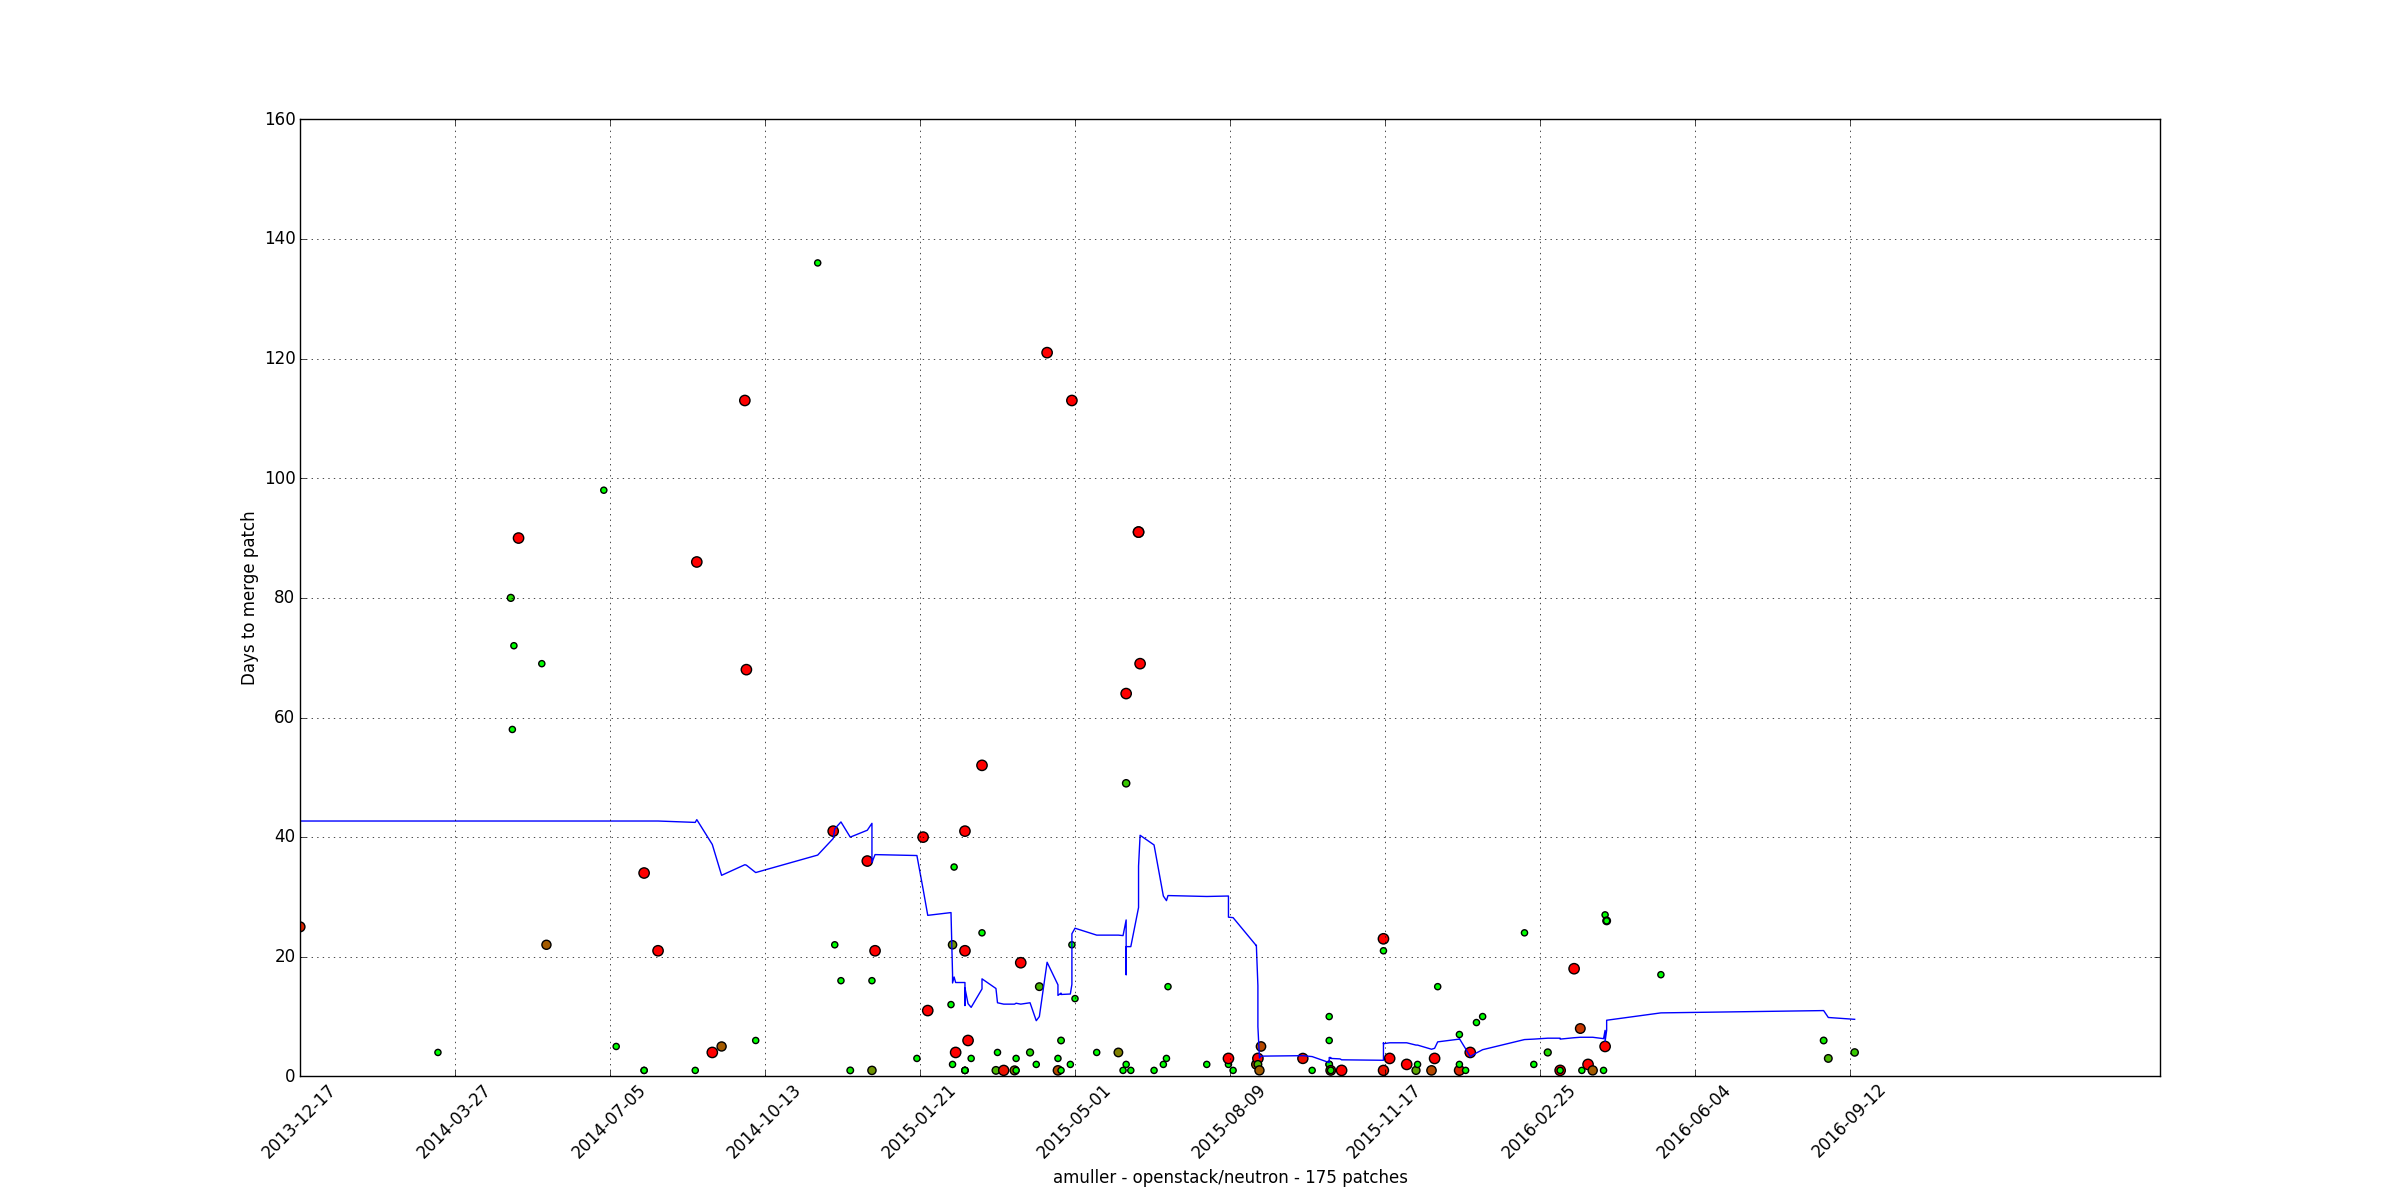
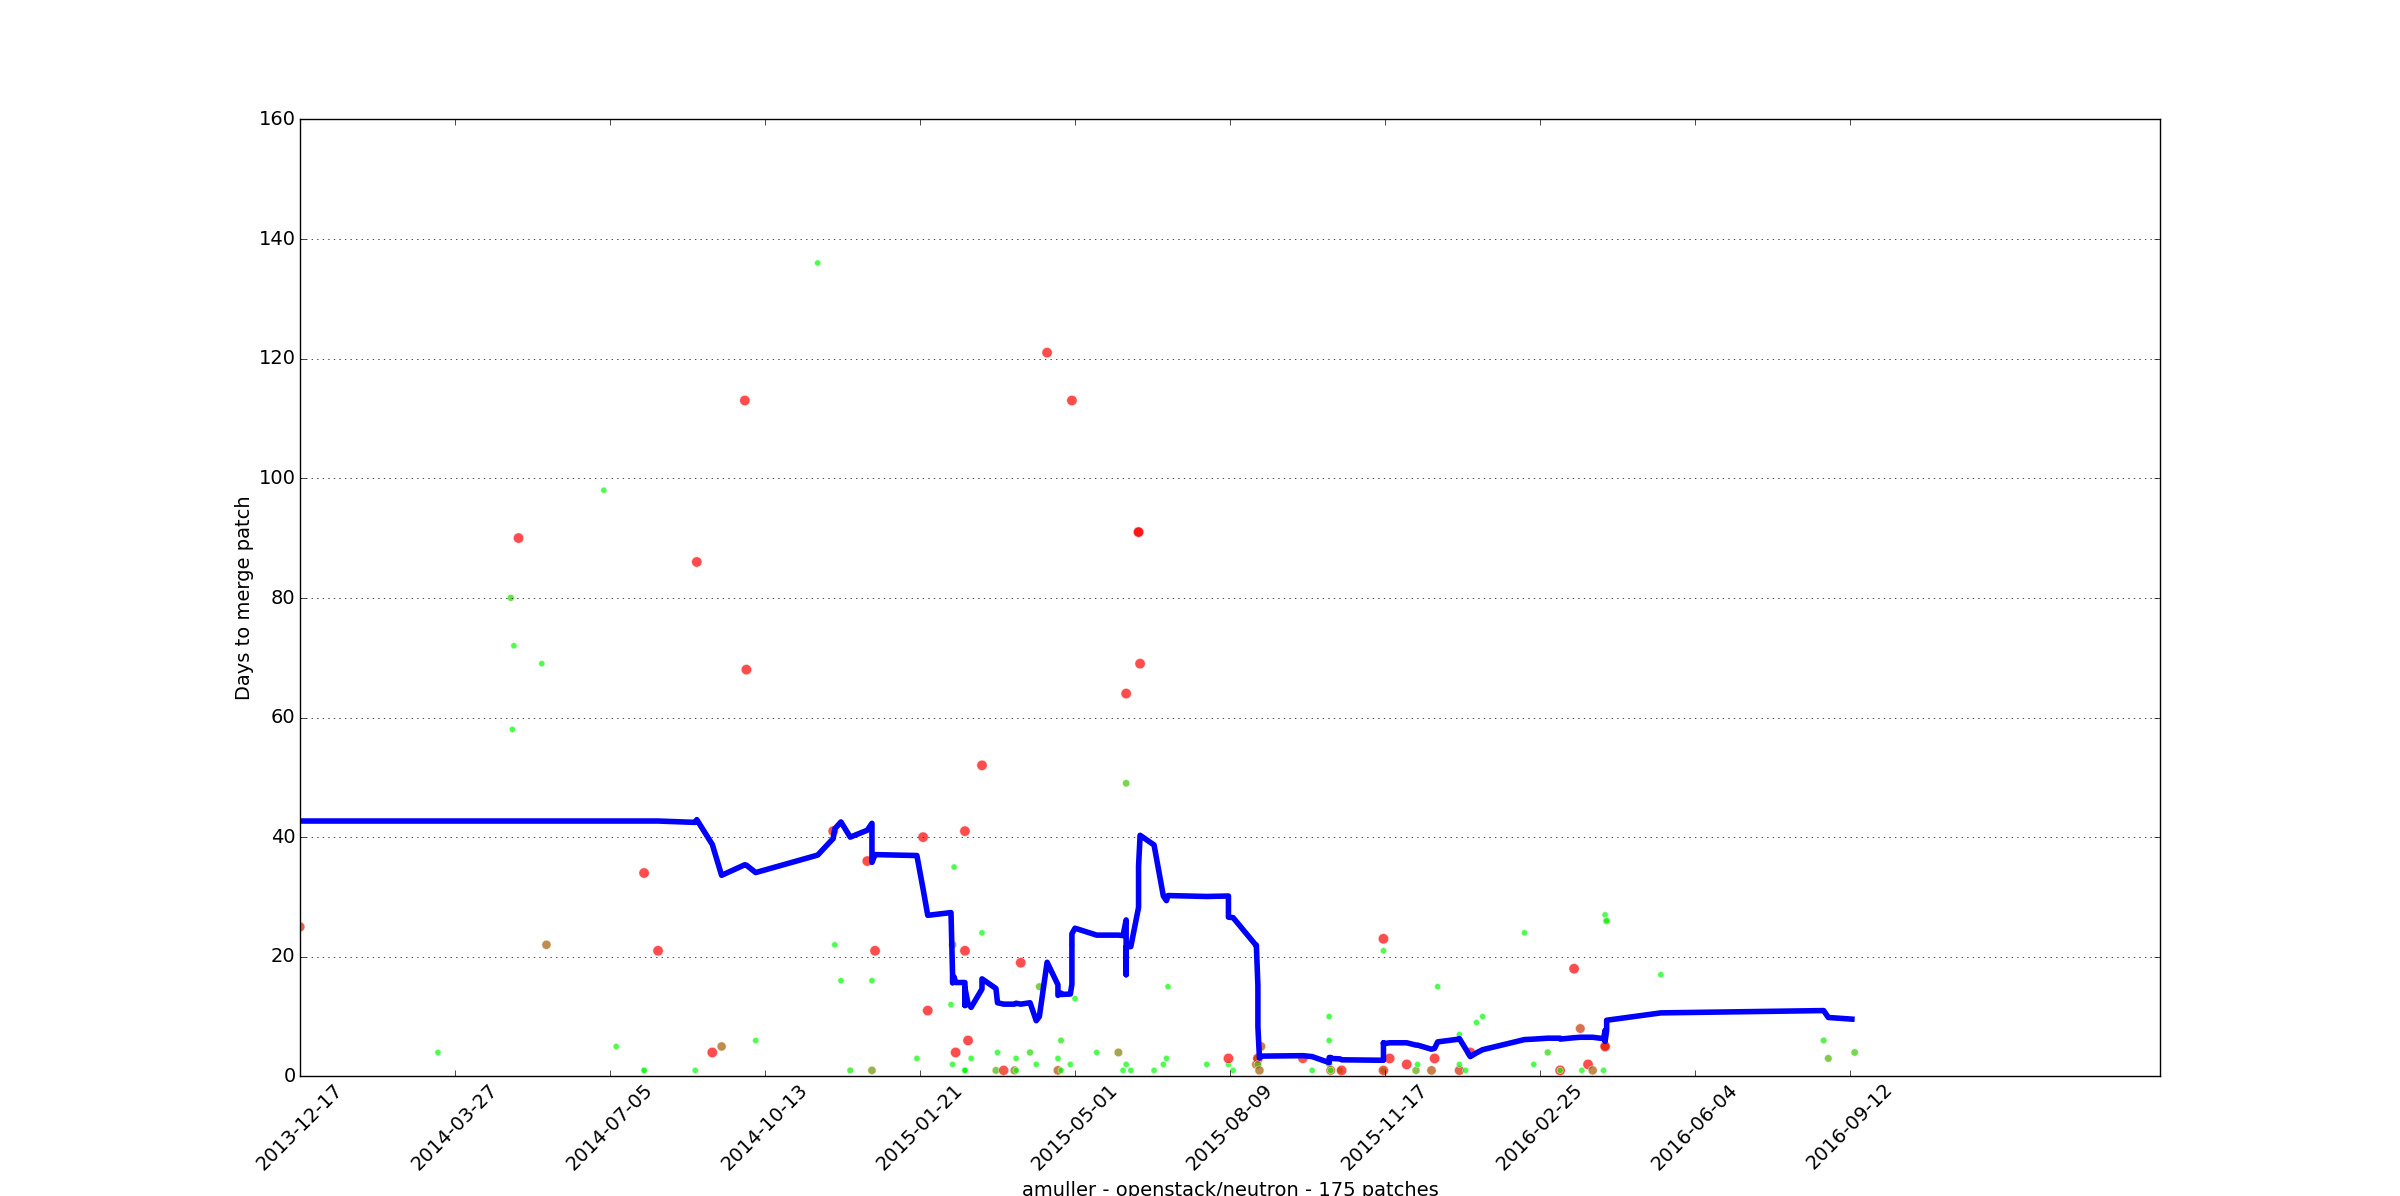
Change graphing style to 538 and add new examples

diff --git a/time_to_merge.py b/time_to_merge.py
@@ -161,7 +161,7 @@ print 'Average: %s, median: %s' % (
 plt.xlabel('%s - %s - %s patches' %
            (' '.join(args.owner), args.project, len(data)))
 plt.ylabel('Days to merge patch')
-plt.grid()
+plt.grid(axis='y')
 
 # Generate a linear regression line
 regression_line = np.polyfit(x, y, 1)
@@ -170,6 +170,7 @@ regression_line_function = np.poly1d(regression_line)
 averages = moving_average(y, len(x) / 10)
 
 # Plot the data points as well as the regression line
+plt.style.use('fivethirtyeight')
 plt.plot(x, averages)
 
 colors = [point[2] for point in points]
@@ -180,7 +181,7 @@ def to_grey(r, g, b):
 
 
 size = [(1.0 - (to_grey(r, g, b))) * 70 for (r, g, b) in colors]
-plt.scatter(x, y, c=colors, s=size)
+plt.scatter(x, y, c=colors, s=size, alpha=0.7)
 
 x_axis = range(0, x[-1], max(1, x[-1] / 10))  # 0 to last point, 10 hops
 
